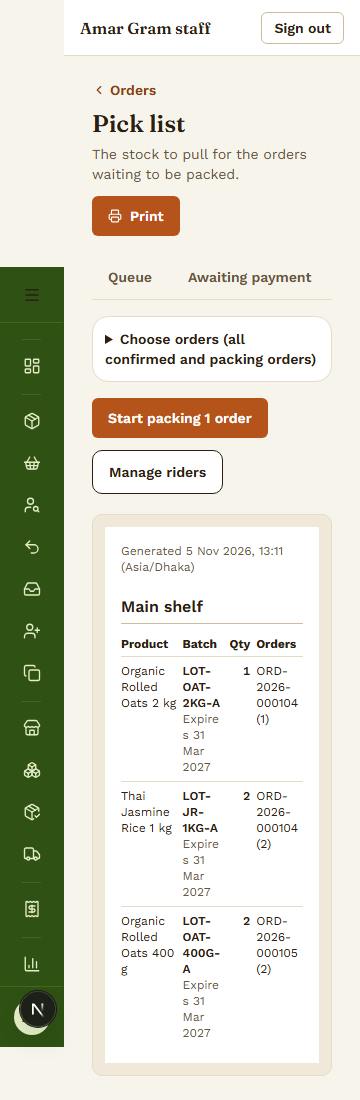
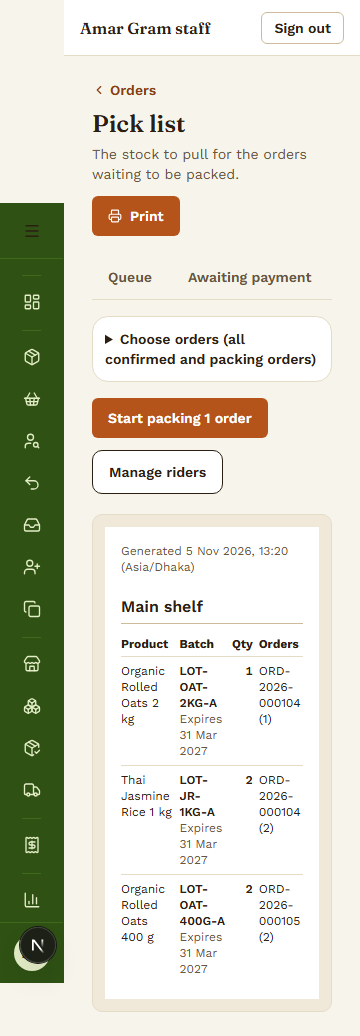
docs(gates): P5-FOLLOWUP-LAYOUT ACCEPTANCE run 2 (FAIL: F4 placeholder under the search clear button)

diff --git a/docs/gates/P5-FOLLOWUP-LAYOUT-ACCEPTANCE.md b/docs/gates/P5-FOLLOWUP-LAYOUT-ACCEPTANCE.md
@@ -51,3 +51,65 @@ UNDECLARED DEVIATIONS
 SCOPE CHECK
 - files in allowed scope: 11/11 (web) plus docs/gates artifacts
 - files outside allowed scope: none
+
+---
+
+# Run 2
+
+GATE: ACCEPTANCE
+HANDOVER: P5-FOLLOWUP-LAYOUT (same criteria as run 1)
+COMMITS: run 1 set plus e7cdce1 8d8e2a5 8009c2c (HEAD 8009c2c, branch feat/p5-followup-layout)
+DATE: 2026-11-05
+STATUS: FAIL
+
+PRIOR GATES
+- ARCHITECTURE / SECURITY / CODE_REVIEW: PASS as recorded, up to 1dd9d10. The delta review of c071242, 906e3b7 and e7cdce1 is below (finding 4).
+- TEST: PASS (P5-FOLLOWUP-LAYOUT-TEST.md and its addendum). The integrator reports 42/42 for p5-followup-layout-360 and customers-admin-360 at 8d8e2a5. I re-ran p5-followup-layout-360 myself on chromium and mobile-360: 36/36 pass.
+
+EVIDENCE I GATHERED
+- next dev on :3121 with mocks, at HEAD 8009c2c. Ran the run-1 probe again (acc.spec.ts and probe2.spec.ts, screenshots to the scratchpad): 12/12. Ran the run-2 probe (run2.spec.ts and run2b.spec.ts): 5/5. Ran the repo spec: 36/36.
+- Refreshed acc-customers-360.png and acc-pick-list-360.png. Added acc-customers-360-field.png (the field as rendered) and acc-customers-360-field-no-cancel-button.png (the same field with the UA cancel button hidden, for comparison).
+- The repo spec rewrote pick-list-1280.png as a side effect. I restored it to the committed version.
+
+CRITERIA
+- S4 F4: NOT MET (finding 1 is still open). The panel padding change widened the input from 206 px to 214 px (inner 160 px). The placeholder measures 155.7 px (canvas) and 155.3 px (rendered span), so on paper it fits. On screen it does not: acc-customers-360.png and acc-customers-360-field.png both show "Name, mobile or ema". The cause is Chrome's `input[type=search]` (web/components/back-office/SearchField.tsx:51). Its `::-webkit-search-cancel-button` keeps its layout space even when the field is empty, which takes roughly 10-15 px from the editable area. Two checks prove it:
+  - If I hide that pseudo-element, the full placeholder shows (acc-customers-360-field-no-cancel-button.png).
+  - If I set the input's value to the placeholder text, it scrolls: scrollWidth 221 > clientWidth 212.
+  The typed term "Rahman" no longer scrolls (212 = 212), and the page has no overflow.
+  The new spec assertion (p5-followup-layout-360.spec.ts:51-59) compares the canvas text width with clientWidth minus padding. That cannot see the reserved cancel-button area, so it passes while the defect is visible.
+- S4 F5: MET, unchanged. Each dd is 206 px wide. "01799999999" and "Dhanmondi" are one line each, the email wraps only at its hyphen, and splitWords returns [].
+- S4 F7: MET, unchanged. Cancel is 63 x 44 px at both 360 and 1280.
+- S2 order panels: MET, unchanged. All 14 dd are 198 px wide and splitWords returns [].
+- S2 money tiles: MET, and finding 3 is closed. Every one of the 13 figures is 1 line at 360 and at 1280 by the Range line-top count. The spec now uses the same count (spec:100-108). Sensitivity check: I squeezed each figure to 40 px with overflow-wrap:anywhere. The new count then reported [1,1,1,1,1,5,1,5,5,5,3,5,1]; the 1s are figures short enough to still fit. The old getClientRects() count still reported all 1s. So the test can now fail.
+- S2 pick list: MET, and finding 2 is closed.
+  - At 360 the region's scrollWidth is 182 and its clientWidth is 182, with no page overflow.
+  - splitWords over tbody td returns [] in my probe, and the spec now asserts the same (spec:213-214).
+  - Each inline line reads "Expires / 31 Mar / 2027", breaking only between words. The `[overflow-wrap:normal]` word does not overflow its 52 px cell: the rightmost span ends at x=226 and the td at x=232.
+  - Print at 794 px: the Expires header is visible, the date cell is a table-cell holding "31 Mar 2027", and the inline copy is display:none. The repo print test passes on both projects.
+- S3 F2: MET, unchanged. At 1280 the frame's scrollWidth is 966 and its clientWidth is 966, with Status ending at x=1176. At 360 the Product header is 208 px wide, splitWords returns [], and the page is 2,853 px tall.
+
+FINDING 4: DELTA REVIEW (ARCHITECTURE, SECURITY, CODE QUALITY) OF c071242, 906e3b7, e7cdce1
+- c071242 (DashboardTile.tsx): removes `@container` and switches the dl to `grid-cols-[repeat(auto-fit,minmax(min(100%,12rem),1fr))]`. Presentational only, inside the component, no new dependency. Security: nothing. Quality: fine. Rows of tiles now have uneven heights, which run 1 accepted as a trade-off.
+- 906e3b7 (TileFigure.tsx and dashboard.test.tsx): splits the formatted text on `(?<=,)` and puts React `<wbr />` elements between the parts. There is no dangerouslySetInnerHTML, the text is still React-escaped, and the accessible text is unchanged (covered by the unit test). Architecture: still renders only formatFigure's output, so ADR-FE-131's single rendering path holds. Two LOW quality notes, neither blocking:
+  - (a) Dropping `whitespace-nowrap` means figures with spaces (unit suffix "N unit", dates "dd MMM yyyy", instants) can now wrap between words. No mock figure does, but no test covers it.
+  - (b) Dropping `[overflow-wrap:anywhere]` means a long comma-free figure overflows instead of wrapping. N1 checks containment only on the mock data.
+  - The regex lookbehind needs Safari 16.4 or later. Acceptable for current targets.
+- e7cdce1 (CustomerBrowsePanel.tsx, PickListPage.tsx): class and markup changes only. Security: nothing. Architecture: fine. Quality: the pick-list change is correct and minimal. The F4 change aims at the wrong constraint, because the panel padding was not what clips the placeholder (see F4 above).
+- Conclusion: none of the three adds security or architecture risk. The process gap from run 1 is closed by this review.
+
+SCOPE
+- Out-of-scope work found: none. e7cdce1 changes only the two files tied to findings 1-2. 8d8e2a5 changes only the follow-up spec.
+- Files outside allowed scope: none.
+
+FINDINGS
+- [LOW, blocks this gate] S4 F4 is still not met. The placeholder is visibly clipped at 360 because Chrome reserves the search cancel button's space in `type="search"` (web/components/back-office/SearchField.tsx:46-60). Possible fixes:
+  - a shorter placeholder for this screen;
+  - another ~12 px of width;
+  - hiding the cancel decoration while the field is empty, e.g. `[&:placeholder-shown::-webkit-search-cancel-button]:hidden`. That keeps the clear button when there is text.
+  SearchField is shared, so a change there needs a check of its other callers.
+- [LOW, blocks this gate together with the above] p5-followup-layout-360.spec.ts:51-59. The placeholder-fit assertion uses canvas width against clientWidth minus padding, which cannot see the UA-reserved area, so it passes while the defect is visible. A sound check: set `input.value = input.placeholder` and assert `scrollWidth <= clientWidth`, then clear it. It measured 221 > 212 here.
+- [LOW, non-blocking] TileFigure.tsx: the nowrap and overflow-wrap removals, notes (a) and (b) above.
+- Closed: run-1 finding 2 (Expires split), finding 3 (vacuous dashboard test) and finding 4 (process gap, by this delta review).
+
+UNDECLARED DEVIATIONS
+- e7cdce1 and 8d8e2a5 were reported as fixing the placeholder. The placeholder is still visibly cut, and the new test cannot detect it.
